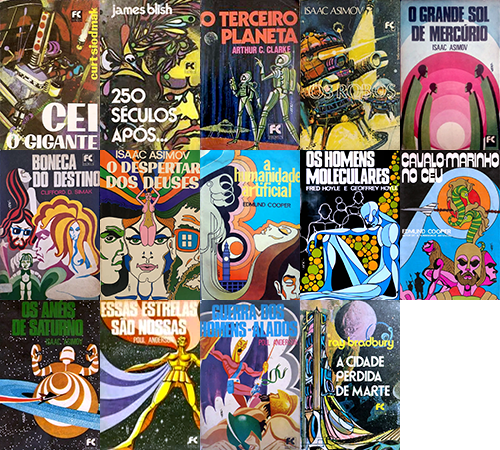
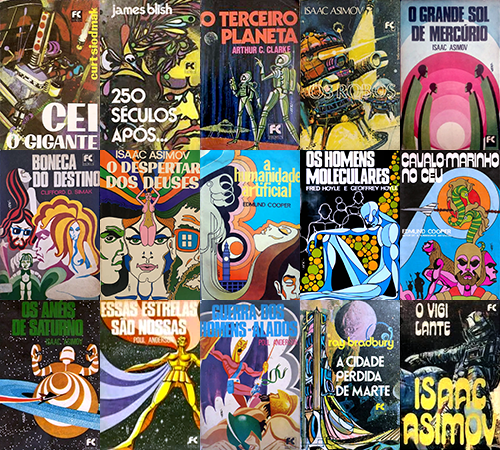
Atualizações

Changed region(s): [[0.78, 0.6533, 1.0, 1.0]]

diff --git a/README.md b/README.md
@@ -6,9 +6,11 @@ A **Hemus - Editora e Livraria**, na década de 1970, traduziu e publicou vário
 
 Algumas das traduções desses clássicos tem mais de 50 anos, e, se encontrados, estão em estado bem desgastado.
 
-A **Hemus** foi sucedida pela **Editora Record**, que inclusive lançou uma versão nacional da *Isaac Asimov Magazine* com 25 edições publicadas. Atualmente a **Aleph** tem publicado novas traduções das séries Império Galáctico, Robôs e Fundação de Isaac Asimov.
+A **Hemus** foi sucedida pela **Editora Record**, que também lançou uma versão nacional da *Isaac Asimov Magazine* com 25 edições publicadas. Atualmente a **Aleph** tem publicado novas traduções das séries Império Galáctico, Robôs e Fundação de Isaac Asimov.
 
 Nas versões da Hemus, vários títulos foram adaptados. Por exemplo, *The Caves of Steel* virou *Caça aos Robôs*.
+
+Este documento será atualizado conforme forem surgindo novas informações.
 
 Edições originais:
 
@@ -18,7 +20,7 @@ Reedições e novos lançamentos:
 
 ![Livros de ficção científica da Hemus](./docs/fc_hemus.jpg)
 
-Em Novembro de 2025, comecei a scanear e preservar digitalmente as versões atualizadas da Hemus, para ler no Kindle. Comecei com os livros do Asimov, e se conseguir, continuarei com os outros livros.
+Em Novembro de 2025, comecei a scanear e preservar digitalmente as versões atualizadas da Hemus, para ler no Kindle.
 
 Estou digitalizando com um scanner de mesa OpticBook 3800L, e usando o software que acompanhou o scanner (Abbyy Fine Reader 12 Sprint) para fazer o OCR.
 
@@ -59,11 +61,11 @@ Aqui está uma lista dos livros da série FC Hemus em ordem alfabética por auto
 | **Para Onde Vamos?**               | Where Do We Go From Here? (1971)                    | Isaac Asimov          | - Maria Judith Martins<br />- Danusa Scarton Rabello Alves |
 | **Vigilante das Estrelas**         | Lucky Starr and the Pirates of the Asteroids (1953) | Isaac Asimov          | - Attílio Cancian                                          |
 | **Essas Estrelas São Nossas**      | We Claim These Stars! (1959)                        | Poul Anderson         | - Affonso Blacheyre                                        |
-| Guerra dos Homens Alados           | War of the Wing-Men (1958)                          | Poul Anderson         |                                                            |
+| **Guerra dos Homens Alados**       | War of the Wing-Men (1958)                          | Poul Anderson         |                                                            |
 | **Luz de Outra Dimensão**          | The Light That Never Was (1972)                     | Lloyd Biggle Jr.      | - Maria Judith Martins                                     |
 | **250 Séculos Após...**            | Midsummer Century (1972)                            | James Blish           | - Attílio Cancian                                          |
-| A Cidade Perdida de Marte          | I Sing the Body Electric (1969)                     | Ray Bradbury          |                                                            |
-| E de Espaço                        | S is for Space (1966)                               | Ray Bradbury          |                                                            |
+| A Cidade Perdida de Marte(2)       | I Sing the Body Electric (1969)                     | Ray Bradbury          |                                                            |
+| **E de Espaço**                    | S is for Space (1966)                               | Ray Bradbury          |                                                            |
 | **F de  Foguete**                  | R is for Rocket (1962)                              | Ray Bradbury          |                                                            |
 | **O Terceiro Planeta**             | Report on Planet Three (1972)                       | Arthur C. Clarke      | - Attílio Cancian                                          |
 | **A Humanidade Artificial**        | The Overman Culture (1971)                          | Edmund Cooper         | - Agatha Maria Auersperg                                   |
@@ -71,7 +73,7 @@ Aqui está uma lista dos livros da série FC Hemus em ordem alfabética por auto
 | **O Diabólico Cérebro Eletrônico** | When Harlie Was One (1972)                          | David Gerrold         | - Agatha Maria Auersperg                                   |
 | **Os Homens Moleculares**          | The Molecule Men (1971)                             | Fred e Geoffrey Hoyle | - Agatha Maria Auersperg                                   |
 | **O Terror Rithiano**              | The Rithian Terror (1965)                           | Damon Knight          | - Agatha M. Auersperg                                      |
-| Os Cérebros Prateados              | The Silver Eggheads (1961)                          | Fritz Leiber          |                                                            |
+| **Os Cérebros Prateados**          | The Silver Eggheads (1961)                          | Fritz Leiber          |                                                            |
 | **Nave Escrava**                   | Slave Ship (1956)                                   | Frederick Pohl        | - Agatha Auersperg                                         |
 | **Boneca do Destino**              | Destiny Doll (1971)                                 | Clifford D. Simak     | - Affonso Blacheyre                                        |
 | **Cei, o Gigante**                 | City in the Sky (1974)                              | Curt Siodmak          | - Sandra de Negraes Brisolla                               |
@@ -79,17 +81,28 @@ Aqui está uma lista dos livros da série FC Hemus em ordem alfabética por auto
 
 (1) Nas primeira edições e dentro do livro, o título aparece como "O Grande Sol de Mercúrio". Na capa das últimas edições aparece só "Grande Sol de Mercúrio"
 
-Alguns dos livros tiveram capas diferentes durante sua existência:
+(2) Não foram encontradas images da capa deste livro no formato novo, mas continuava relacionado dentro dos outros livros da série.
+
+### Outros livros
+
+Não existem muitas informações disponíveis atualmente (como catálogos da Editora Hemus), mas também encontrei mais alguns livros, não mencionados anteriormente, com o logotipo da FC Hemus:
+
+| Título                | Título Original    | Autor           | Tradução     |
+| --------------------- | ------------------ | --------------- | ------------ |
+| **Exilado No Espaço** | The Last Astronaut | Robert P. White | Lauro Blandy |
+| A Galáxia Estranha    | Galaxy 666(?)      | Robert P. White |              |
+
+Robert P. White é um pseudônimo usado somente no Brasil do autor inglês Robert Lionel Fanthorpe. No exterior foram editados com o pseudônimo Pel Toro. Os livros, embora tenham impresso o logotipo `FC Hemus` na capa, não constam em nenhuma relação de livros.
+
+Fora as reedições, alguns dos livros tiveram capas diferentes durante sua existência:
 
 ![Variações de Capa](./docs/variacoes_capas.jpg)
 
-A segunda capa de Os Robôs usa a ilustração da capa da primeira edição da Hemus, e a terceira usa a ilustração da contracapa.
-
 ## Capas das Reedições
 
-Nas versões nacionais de livros, geralmente as ilustrações são as mesmas das publicações originais, mas neste caso foram aproveitadas de outros livros também. O artista não está creditado na maioria dos livros, e não sei se eram obtidas permissões para uso das imagens, pois foram cortadas as assinaturas dos artistas na maioria das capas. Pesquisando, consegui levantar a seguinte relação de artistas, e onde a arte foi originalmente usada.
+Nas versões nacionais de livros, geralmente as ilustrações são as mesmas das publicações originais, mas neste caso foram aproveitadas de outros livros também. O artista não está creditado na maioria dos livros, e não sei se eram obtidas permissões para uso das imagens, pois foram cortadas as assinaturas dos artistas. Pesquisando, consegui levantar a seguinte relação de artistas, e onde a arte foi originalmente usada.
 
-Em várias das reedições, ainda consta o nome do artista da versão original na página de Copyright ("Edú", ou "Decio Guedes"), indicando que o miolo provavelmente é da primeira edição, e que foi encapado novamente, ou que foram aproveitadas os mesmos fotolítos para as edições subsequentes, sem alterações.
+Em várias das reedições, ainda consta o nome do artista da versão original na página de Copyright ("Edú", ou "Decio Guedes"), indicando que o miolo pode ser da primeira edição, que foi encapado novamente, ou que foram aproveitados os mesmos fotolitos para as edições subsequentes, sem alterações.
 
 | Título                                                       | Publicação Original                                          | Artista                    |
 | ------------------------------------------------------------ | ------------------------------------------------------------ | -------------------------- |
@@ -116,7 +129,7 @@ Em várias das reedições, ainda consta o nome do artista da versão original n
 | **Para Onde Vamos?**<br />![](./docs/hemus_para_onde_vamos.jpg) | The Three Stigmata of Palmer Eldritch (MacFadden, 1966)<br />![](./docs/the_three_stigmata_of_palmer_edritch.jpg) | Jack Faragasso             |
 | **Vigilante das Estrelas**<br />![](./docs/hemus_vigilante_das_estrelas.jpg) | Buy Jupiter (Panther, 1975)<br />![](./docs/buy_jupiter.jpg) | Peter Andrew Jones         |
 | **Essas Estrelas São Nossas**<br />![](./docs/hemus_essas_estrelas_sao_nossas.jpg) | Analog Science Fiction - Abril 1977<br />![](./docs/analog_april_77.jpg) | Vincent DiFate             |
-| Guerra dos Homens Alados                                     | Hot Stuff #4 (1977)<br />![](./docs/hot_stuff_4.jpg)         | Ken Barr                   |
+| **Guerra dos Homens Alados**                                 | Hot Stuff #4 (1977)<br />![](./docs/hot_stuff_4.jpg)         | Ken Barr                   |
 | **Luz de Outra Dimensão**<br />![](./docs/hemus_luz_de_outra_dimensao.jpg) | The Siege of Wonder (DAW, 1976)<br />![](./docs/the_siege_of_wonder.jpg) | H. R. Van Dongen           |
 | **250 Séculos Após...**<br />![](./docs/hemus_250_seculos_apos.jpg) | Pintura *Urban Monad 116* - 1980<br />![](./docs/urban_monad_116.jpg) | Vincent DiFate             |
 | A Cidade Perdida de Marte                                    | Arte original, 1975                                          | Décio Guedes               |
@@ -128,7 +141,7 @@ Em várias das reedições, ainda consta o nome do artista da versão original n
 | **O Diabólico Cérebro Eletrônico**<br />![](./docs/hemus_o_diabolico_cerebro_eletronico.jpg) | Double Star (Signet, 1979)<br />![](./docs/double_star.jpg)  | Vincent DiFate             |
 | **Os Homens Moleculares**<br />![](./docs/hemus_os_homens_moleculares.jpg) | The Caves of Steel (Fawcett, 1972)<br />![](./docs/the_caves_of_steel.jpg) | John Berkey                |
 | **O Terror Rithiano**<br />![](./docs/hemus_o_terror_rithiano.jpg) | To Live Forever (Ballantine, 1976)<br />![](./docs/to_live_forever.jpg) | Dean Ellis                 |
-| Os Cérebros Prateados                                        | In the Wake of Man (Bobbs-Merrill, 1975)<br />![](./docs/in_the_wake_of_man.jpg) | Nick Aristovulos           |
+| **Os Cérebros Prateados**<br />![](./docs/\hemus_os_cerebros_prateados.jpg) | In the Wake of Man (Bobbs-Merrill, 1975)<br />![](./docs/in_the_wake_of_man.jpg) | Nick Aristovulos           |
 | **Nave Escrava**<br />![](./docs/hemus_nave_escrava.jpg)     | Slave Ship (Ballantine, 1969)<br />![](./docs/slave_ship.jpg) | Robert Foster              |
 | **Boneca do Destino**<br />![](./docs/hemus_boneca_do_destino.jpg) | We Who Are About To (Dell, 1977)<br />![](./docs/we_who_are_about_to.jpg) | (Artista não identificado) |
 | **Cei, o Gigante**<br />![](./docs/hemus_cei_o_gigante.jpg)  | The Best of Philip K Dick (Ballantine, 1977)<br />![](./docs/the_best_of_philip_k_dick.jpg) | Vincent DiFate             |
@@ -144,9 +157,9 @@ Vou atualizando este documento conforme as atividades são executadas.
 | ----------- | --------- | ----- |
 | Páginas     | 9906      | 100,0 |
 | Localizado  | 9129      | 92,2  |
-| Scaneadas   | 5281      | 53,3  |
+| Scaneadas   | 6068      | 61,2  |
 | Convertidas | 1147      | 11,6  |
-| Revisadas   | 296       | 3,0   |
+| Revisadas   | 507       | 5,1   |
 
 ### Detalhado
 
@@ -161,25 +174,25 @@ Vou atualizando este documento conforme as atividades são executadas.
 | **Fim da Eternidade**              | 248     | ✅          | ✅       | ✅    |      |          |
 | Fundação                           | 503     | ✅          |         |      |      |          |
 | **Fundação II**                    | 372     | ✅          | 370 (2) |      |      |          |
-| **Júpiter à Venda**                | 236     | ✅          | ✅       | ✅    | ✅    | 50       |
-| Nós Robôs                          | 559     |            |         |      |      |          |
+| **Júpiter à Venda**                | 236     | ✅          | ✅       | ✅    | ✅    | 78       |
+| Nós Robôs                          | 559     |            | 533     |      |      |          |
 | **Nós, os Marcianos**              | 256     | ✅          | ✅       | ✅    |      |          |
 | **O Cair da Noite**                | 378     | ✅          | ✅       | ✅    | ✅    | 347      |
 | **O Futuro Começou**               | 470     | ✅          |         |      |      |          |
 | **O Grande Sol de Mercúrio**       | 193     | ✅          | ✅       | ✅    |      |          |
 | **O Homem Bicentenário**           | 238     | ✅          | ✅       | ✅    | ✅    | 82       |
-| **O Robô de Júpiter**              | 142     | ✅          |         |      |      |          |
+| **O Robô de Júpiter**              | 142     | ✅          | ✅       |      |      |          |
 | **Os Anéis de Saturno**            | 234     | ✅          |         |      |      |          |
 | **Os Oceanos de Vênus**            | 190     | ✅          | ✅       | ✅    |      |          |
-| **Os Robôs**                       | 146     | ✅          |         |      |      |          |
+| **Os Robôs**                       | 264     | ✅          | ✅       |      |      |          |
 | **Para Onde Vamos?**               | 374     | ✅          | ✅       | ✅    |      |          |
 | **Vigilante das Estrelas**         | 162     | ✅          | ✅       | ✅    |      |          |
 | **Essas Estrelas São Nossas**      | 197     | ✅          |         |      |      |          |
-| Guerra dos Homens Alados           | 224     | ✅          |         |      |      |          |
+| **Guerra dos Homens Alados**       | 224     | ✅          |         |      |      |          |
 | **Luz de Outra Dimensão**          | 228     | ✅          |         |      |      |          |
 | **250 Séculos Após...**            | 136     | ✅          | ✅       | ✅    |      |          |
 | A Cidade Perdida de Marte (1)      | 218     |            |         |      |      |          |
-| E de Espaço                        | 202     | ✅          |         |      |      |          |
+| **E de Espaço**                    | 202     | ✅          |         |      |      |          |
 | **F de  Foguete**                  | 210     | ✅          | ✅       | ✅    |      |          |
 | **O Terceiro Planeta**             | 286     | ✅          | ✅       | ✅    |      |          |
 | **A Humanidade Artificial**        | 214     | ✅          |         |      |      |          |
@@ -187,7 +200,7 @@ Vou atualizando este documento conforme as atividades são executadas.
 | **O Diabólico Cérebro Eletrônico** | 282     | ✅          |         |      |      |          |
 | **Os Homens Moleculares**          | 286     | ✅          | ✅       | ✅    | 162  |          |
 | **O Terror Rithiano**              | 124     | ✅          | ✅       | ✅    |      |          |
-| Os Cérebros Prateados              | 220     | ✅          |         |      |      |          |
+| **Os Cérebros Prateados**          | 220     | ✅          |         |      |      |          |
 | **Nave Escrava**                   | 168     | ✅          | ✅       | ✅    |      |          |
 | **Boneca do Destino**              | 214     | ✅          |         |      |      |          |
 | **Cei, o Gigante**                 | 210     | ✅          |         |      |      |          |
